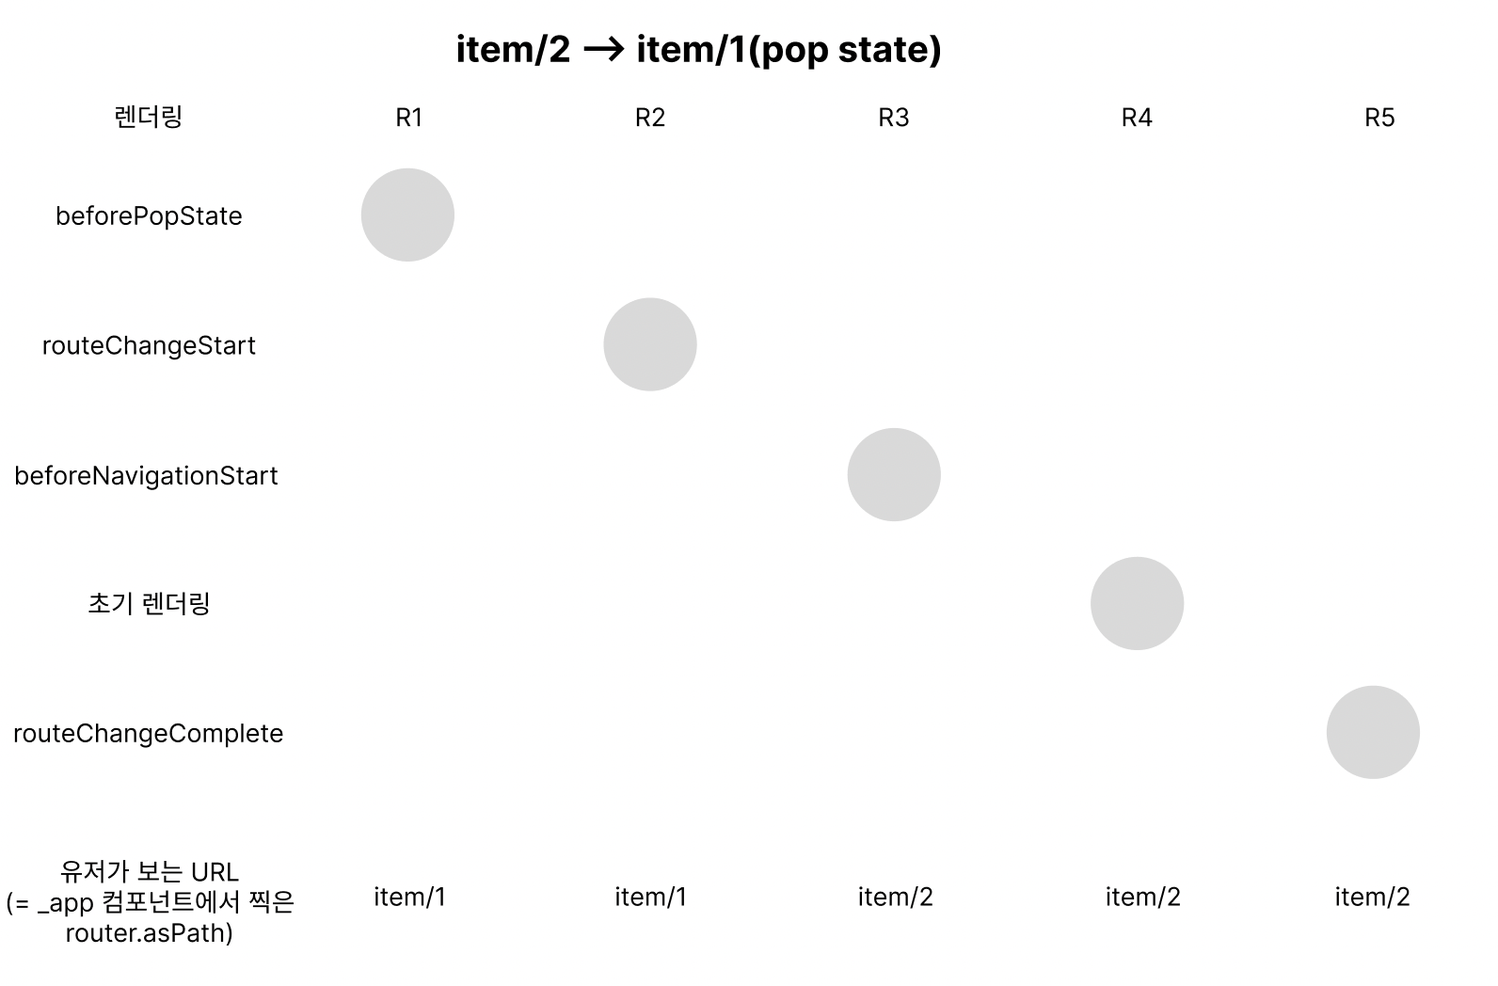
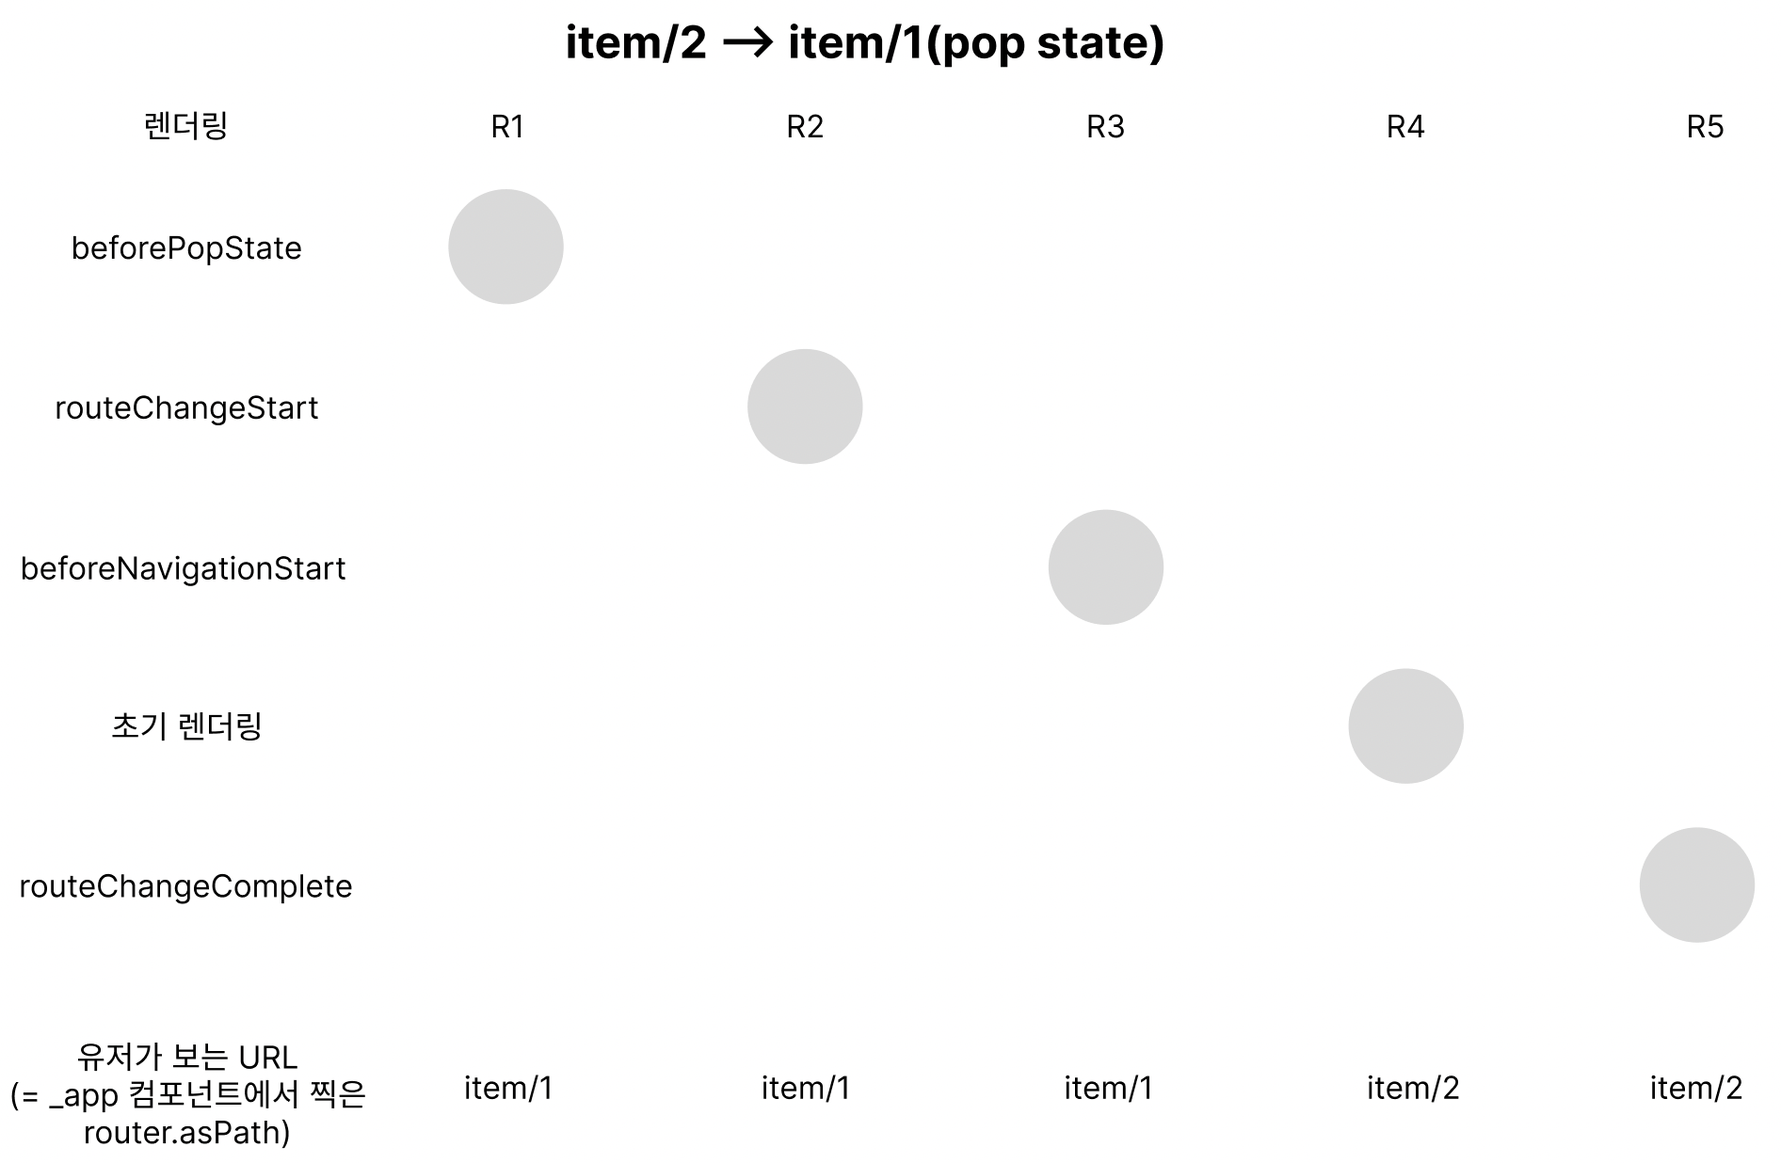
chore: 문서 작성

diff --git a/documents/Share/backspace-scroll-restoration.md b/documents/Share/backspace-scroll-restoration.md
@@ -1,16 +1,23 @@
-웹뷰 프로젝트를 진행하면서, dynamic routing 페이지에서 뒤로가기를 구현하면서 겪은 시행착오와 문제점들을 해결한 과정을 공유합니다.
+---
+date: '2023-02-09'
+title: 'nextjs 스크롤 복원'
+subTitle: 'nextjs에서 뒤로가기시 스크롤 복원하는 방법'
+grandParent: ''
+parent: 'Share'
+slug: '/share/nextjs-scroll-restore'
+---
 
-목차는 다음과 같습니다.
+웹뷰 프로젝트를 진행하면서, dynamic routing 페이지에서 뒤로가기시 스크롤 복원 로직을 구현하면서 겪은 시행착오와 문제점들을 해결한 과정을 공유합니다. 목차는 다음과 같습니다.
 
-#### 1. file based routing과 dynamic routing에 관한 이해
+#### 📌 1. file based routing과 dynamic routing에 관한 이해
 
-#### 2. dynamic routing 페이지의 특성
+#### 📌 2. dynamic routing 페이지의 특성
 
-#### 3. 용어 정의
+#### 📌 3. 용어 정의
 
-#### 4. nextjs에서 제공되는 route와 관련한 라이프 사이클 메서드들의 실행과 렌더링 및 페이지 URL 변화
+#### 📌 4. nextjs에서 제공되는 route와 관련한 메서드들의 실행과 렌더링 및 페이지 URL 변화
 
-#### 5. 코드 레벨에서의 뒤로가기 구현
+#### 📌 5. 코드 레벨에서의 뒤로가기 구현
 
 - 스크롤 저장
 
@@ -20,11 +27,9 @@
 
 ---
 
-### 1. file based routing과 dynamic routing이란?
+### 📌 1. file based routing과 dynamic routing이란?
 
-nextjs는 file based routing이며 dynamic routing 기능을 제공합니다. file based routing이라 함은 nextjs에서 고유하게 제공하는 pages 폴더 하위에 존재하는 폴더 및 파일들이 URL로 인식됨을 의미합니다.
-
-가령 아래와 같은 폴더 구조가 있다고 가정합니다.
+nextjs는 file based routing이며 dynamic routing 기능을 제공합니다. file based routing이라 함은 nextjs에서 고유하게 제공하는 pages 폴더 하위의 폴더 및 파일들이 URL로 인식됨을 의미합니다. 가령 아래와 같은 폴더 구조가 있다고 가정합니다.
 
 ```
 pages
@@ -34,30 +39,27 @@ pages
 
 ```
 
-위와 같은 폴더 구조로 페이지가 구성된 경우 https://example.com/item/list으로 접근이 가능하고, 파일명에 대괄호가 들어가 있는 것을 통해서 dynamic routing 처리가 되어있는 것을 알 수 있습니다. 그러므로 https://exmaple.com/item/1 혹은 http://example.com/item/23 등, item 하위 경로의 아무 숫자로든 접근이 가능해집니다.
+위와 같은 폴더 및 파일 구조를 갖는 경우, https://example.com/item/list으로 접근이 가능하고, 파일명에 대괄호가 들어가 있는 것을 통해서 dynamic routing 처리가 되어있는 것을 알 수 있습니다. 그러므로 https://exmaple.com/item/1 혹은 http://example.com/item/23 등, item 하위 경로의 아무 숫자로든 접근이 가능해집니다.
 
 ---
 
-### 2. dynamic routing 페이지의 특성
+### 📌 2. dynamic routing 페이지의 특성
 
-dynamic routing 페이지의 특성 중 하나는, 페이지 내에 존재하는 버튼 요소등을 통해서 동일한 dynamic routing 경로에 접근하는 경우, 그러니까 item/1 -> item/2 -> item/3 -> ... -> item/100 과 같이 이동하는 경우, [id].tsx 컴포넌트는 [unmount되지 않고 계속 사용](https://nextjs.org/docs/api-reference/next/router#resetting-state-after-navigation)됩니다. 다만, 리렌더링이 계속 발생할 뿐입니다.
-
-이로부터 파생되는 다음 두가지 특성이 존재합니다.
+dynamic routing 페이지의 특성 중 하나는, 페이지 내에 존재하는 버튼 요소등을 통해서 동일한 dynamic routing 경로에 접근하는 경우, 그러니까 item/1 -> item/2 -> item/3 -> ... -> item/100 과 같이 이동하는 경우, [id].tsx 컴포넌트는 [unmount되지 않고 계속 사용](https://nextjs.org/docs/api-reference/next/router#resetting-state-after-navigation)됩니다. 다만, 리렌더링이 계속 발생할 뿐입니다. 이로부터 파생되는 다음 두가지 특성이 존재합니다.
 
 #### 1. 이전 상태가 계속 유지됩니다.
 
-item/1에서 머무르다가 item/2에 도달했을 때 값을 초기화한 상태에서 시작하는게 아니라, item/1에 사용하던 상태와 컴포넌트가 그대로 남아있습니다. 그리고 다음과 같은 문제를 야기합니다.
+item/1에서 머무르다가 item/2에 도달했을 때 값을 useState 내부 값을 초기화한 상태에서 시작하는게 아니라, item/1에 사용하던 상태와 컴포넌트가 그대로 남아있습니다. 그리고 다음과 같은 문제를 야기합니다.
 
-a. 서로 다른 item 페이지에 방문할 때마다, useEffect 내부에서 어떤 로직이 실행되길 기대한다면, 페이지의 변화를 알수있게 dependency 로직에 넣어주어야 합니다.
+- 서로 다른 item 페이지에 방문할 때마다, useEffect 내부에서 어떤 로직이 실행되길 기대한다면, dependency에 페이지 변화에 관한 변수를 넣어주어야 합니다.
 
-b. item/1이 item/2에 비해서 스토리 컨텐츠의 스크롤 가능 높이가 매우 크다고 가정할 때, item/2에서 item/1로 뒤로가기 하는 경우, 렌더링하는 과정과 스크롤을 복원하려는 로직의 충돌(?)로 인해 스크롤이 정상적인 위치로 복원되지 않습니다.
+- item/1이 item/2에 비해서 스토리 컨텐츠의 스크롤 가능 높이가 매우 길다고 가정할 때, item/2에서 item/1로 뒤로가기 하는 경우, 렌더링하는 과정과 스크롤을 복원하려는 로직의 충돌(?)로 인해 스크롤이 정상적인 위치로 복원되지 않습니다. (아직 해결 못함)
 
 #### 2. 화면을 아얘 처음부터 그리지 않기 때문에 화면이 깜빡이지 않습니다.
 
-만약 이러한 특성을 원하지 않는다면, Component에 다음과 같이 key를 할당하여 remount 시켜줄 수 있습니다.
+만약 이러한 특성을 원하지 않는다면, Component에 다음과 같이 key를 할당하여 remount 시켜 상태를 초기화할수 있습니다.
 
 ```javascript
-// pages/_app.js
 import { useRouter } from 'next/router'
 import { getItem } from 'apis'
 
@@ -76,37 +78,37 @@ const ItemPage = () => {
 
 ---
 
-### 3. 용어 정의
+### 📌 3. 용어 정의
 
-페이지 네비게이션이 일어날 수 있는 방법과 용어에 대해서 몇가지 정의하고 넘어가겠습니다.
+페이지 네비게이션은 다음 네가지 방법으로 일어날 수 있습니다.
+
+- 페이지 내에서 다음 페이지로 넘어가는 요소와의 상호작용 (push)
 
 - 뒤로가기 (backspace, 주소탭 옆의 뒤로가기 클릭)
 
 - 앞으로가기 (forward, 주소탭 옆의 앞으로가기 클릭)
 
-- 페이지 내에서 다음 페이지로 넘어가는 요소와의 상호작용 (push 혹은 pushState)
-
 - 주소탭에 URL 직접 입력
 
-저는 여기서 뒤로가기에 대한 상황만 처리했을 뿐 나머지 상황은 처리하지 못했습니다.
+첫번째는 단순 router.push를 하는 일반적인 상황이므로 제외하고, 나머지 케이스들 중에서 뒤로가기 케이스에 대해서만 로직을 작성했습니다.
 
 ---
 
-### 4. nextjs에서 제공되는 route와 관련한 이벤트들의 실행과 렌더링 및 페이지 URL 변화
+### 📌 4. nextjs에서 제공되는 route와 관련한 이벤트들의 실행과 렌더링 및 페이지 URL 변화
 
-다음 코드에 보이는 이벤트 핸들러가 작성된 상태에서 URL이 이동될 때, 렌더링 순서와 페이지 URL이 어떻게 변하는지 알아봅시다. 아래 코드는 [Codesandbox](https://codesandbox.io/s/naughty-aj-mihsvq?file=/pages/_app.js)에 작성해두었습니다.
+nextjs에서 route와 관련한 이벤트 핸들러(beforePopState, routeChangeStart 등)들을 제공합니다. 스크롤 복구 로직을 구현하면서 이벤트 핸들러 내부에서의 상태 업데이트와 언제 어떻게 렌더링이 발생하여 실질적인 페이지 이동은 언제 일어나는지에 대한 이해가 필요했습니다. 관련한 코드는 [Codesandbox](https://codesandbox.io/s/naughty-aj-mihsvq?file=/pages/_app.js)에 작성해두었습니다.
 
-앞선 route 관련 이벤트들의 실행에 따른 렌더링 및 페이지 URL 변화를 시각화하면 다음과 같습니다.
+앞선 Codesandbox 코드들을 렌더링 및 페이지 URL 변화 관점에서 시각화 해보면 다음과 같습니다.
 
 ![](./push-state.png)
 
-먼저 push state 상황이므로 beforePopState 이벤트 핸들러는 실행되지 않습니다. 처음 렌더링(R1)은 routeChangeStart 이벤트 핸들러 내부의 상태 업데이트에 의해서 발생하고, 두번째 렌더링(R2)는 beforeNavigationStart 이벤트 핸들러에 의해 발생되고, 렌더링이 끝나면 URL이 바뀝니다.
+먼저 push state 상황이므로 beforePopState 이벤트 핸들러는 실행되지 않습니다. 처음 렌더링(R1)은 routeChangeStart 이벤트 핸들러 내부의 상태 업데이트에 의해서 발생하고, 두번째 렌더링(R2)는 beforeNavigationStart 이벤트 핸들러에 의해 발생되고, 리렌더링이 끝나면 URL이 바뀌면서 초기 렌더링(R3)이 진행됩니다. 초기 렌더링이 끝나면 routeChangeComplete에 의해서 네번째 렌더링(R4)가 발생합니다.
 
-URL이 바뀐직후 곧바로 초기 렌더링이 한번 일어나고(이때 새로운 id item/2로 데이터 요청), 초기 렌더링이 끝나면 routeChangeComplete에 의해서 네번째 렌더링(R4)가 발생합니다. 그러니까 만약 rotueChangeStart 이벤트 핸들러나 beforeNavigationStart 이벤트 핸들러에서 여러 상태를 업데이트하면 다음 페이지로 넘어가기 전에 모든 상태를 업데이트하고 다음 페이지로 넘어가게 됩니다.
+rotueChangeStart 이벤트 핸들러나 beforeNavigationStart 이벤트 핸들러에서 상태를 업데이트하면 URL이 바뀌기전에 업데이트된 사항을 변경하고 다음 URL로 넘어가게 됩니다.
 
-routeChangeStart시 isRouting을 true로 만들고, routeChangeComplete시 isRouting을 false로 만듭니다. console.log(유저가 보는 현재 URL, isRouting)을 로깅하면 item/2, false가 찍히는 경우가 있을텐데, 초기렌더링이 존재함을 알지 못한다면 '라우팅도 안끝났는데 왜 URL은 바뀌어있지?'라는 생각이 들수 있습니다.
+chatGPT는 'route가 끝나면 유저가 사용 가능한 페이지가 보여져있다고'고 설명합니다. 만약 초기 렌더링 단계의 존재를 알지 못한다면 상황에 따라서 이 문장이 조금 혼란스러울 수 있습니다.
 
-그도 그럴것이 chatGPT는 'route가 끝나면 유저가 사용 가능한 페이지가 보여져있다.'라고 설명하기에 착각할수 있습니다. (틀린 설명은 아닌...)
+예를들면 isRouting이라는 boolean 상태가 있다고 가정해봅시다. 그리고 routeChangeStart시 isRouting true로 만들고, routeChangeComplete시 isRouting을 false로 만들어봅니다. console.log(유저가 보는 URL, isRouting)을 로깅하면 item/2, false가 찍히는 경우가 있을텐데, 초기 렌더링이 존재함을 알지 못한다면 '라우팅도 안끝났는데 왜 URL은 바뀌어있지?'라는 생각이 들수 있습니다.
 
 아래 뒤로가기 상황은 beforePopState만 추가되고 모두 동일합니다.
 
@@ -116,17 +118,19 @@ routeChangeStart시 isRouting을 true로 만들고, routeChangeComplete시 isRou
 
 ---
 
-### 3. 현재 뒤로가기와 관련한 라이프 사이클 상태 변수(메서드가 아님)로 다음 세가지가 존재합니다.
+### 📌 5. 코드 레벨에서의 뒤로가기 구현
 
 - isBeforePopStateEventTriggered
 
 - isCurrentPageVisitedByBackspace
 
-우선 isBeforePopStateEventTriggered isCurrentPageVisitedByBackspace가 왜 사용되는지 설명하겠습니다.
+우선 뒤로가기와 관련한 위 두가지 변수를 먼저 설명하겠습니다.
 
 ![](./backspace.png)
 
-beforePopState 이벤트 핸들러가 실행된 후 routeChangeStart 이벤트 핸들러 순서로 실행됩니다. 뒤로가기가 발생했는지, 안 발생했는지를 알기 위해서는 beforePopState가 실행됐는지 안 실행됐는지를 알수 있는 변수가 필요합니다. 그래서 isBeforePopStateEventTriggered 변수와 업데이트 함수를 만들었습니다.
+beforePopState 이벤트 핸들러가 실행된 후 routeChangeStart 이벤트 핸들러가 실행됩니다. 뒤로가기가 발생했는지, 안발생했는지를 알기 위해서는 beforePopState가 실행됐는지 안실행됐는지를 알수 있어야합니다. 그래서 isBeforePopStateEventTriggered 변수와 업데이트 함수를 만들었습니다.
+
+뒤로가기로직은 많은 페이지에서 사용될 것으로 예상됩니다. 그렇기 때문에 앱이 꺼지기 전까지 unmount되지 않는 \_app 컴포넌트 내에 useBackSpace훅 내에서 이벤트 리스너를 등록합니다. 뒤에서 설명하겠지만 실제 사용하는 페이지에서(예를들면 스크롤 복원이 필요한 페이지) isBeforePopStateTriggered 변수가 필요하기 때문에 export 해주었습니다.
 
 ```javascript
 export let isBeforePopStateTriggered = false
@@ -135,11 +139,9 @@ export let updateIsBeforePopStateTriggered = (newValue: Boolean) =>
   (isBeforePopStateTriggered = newValue)
 ```
 
-뒤로가기로직은 많은 페이지에서 사용될 것으로 예상됩니다. 그렇기 때문에 앱이 꺼지기 전까지 unmount되지 않는 \_app 컴포넌트 내에 useBackSpace()훅을 호출하여 이벤트 리스너를 등록하는데요. 뒤에서 설명하겠지만 실제 사용하는 페이지에서(현재는 스크롤 복원이 필요한 페이지) isBeforePopStateTriggered 변수가 필요하기 때문에 export 해주었습니다.
+또한 단순히 flag의 역할을 위해서 사용되어 굳이 리렌더링을 유발하는 상태로 관리할 필요가 없어서 일반 변수로 선언해주었으며, react가 관리하는 상태와 햇갈릴 수 있을 것 같아서 set이라는 prefix 대신 update prefix를 붙여주었습니다.
 
-![](./app-page-structure.png)
-
-react가 관리하는 상태와 햇갈릴 수 있을 것 같아서 set이라는 prefix 대신 update prefix를 붙여주었습니다.
+앞선 사진속 로직을 이어서 설명하면 다음과 같습니다.
 
 isBeforePopStateEventTriggered의 초기값을 항상 false로 만들고, beforePopState 이벤트 핸들러가 실행되면 true로 만듭니다. 그러면 routeChangeStart가 실행됐을 때 이 값이 true라면 뒤로가기가 발생한 상황이고, 그렇지 않다면 뒤로가기가 발생하지 않은 상태가 되게 됩니다.
 
@@ -149,7 +151,7 @@ isBeforePopStateEventTriggered의 초기값을 항상 false로 만들고, before
 
 스크롤 저장은 (1) push state시 혹은 (2) history stack상 맨 마지막에 존재하는 페이지에서 뒤로가기시(앞으로가기가 불가능한 페이지)에서 스크롤을 저장해야 합니다. (2)를 고려하지 않는다면, 뒤로가기 했다가 다시 앞으로가기시에 저장된 스크롤 위치가 없어서 정상적인 스크롤 복구가 이루어지지 않습니다.
 
-저는 앞으로가기가 있는 웹의 조건이 아닌 앱의 조건을 우선적으로 구현하였으므로 둘다 처리하는 로직은 주석처리했습니다.
+저는 앞으로가기가 있는 웹의 조건이 아닌 앱의 조건만을 고려하여 구현하였으므로 (1)과 (2)를 모두 처리하는 로직은 주석처리했습니다.
 
 ```javascript
 const handleChangeRouteStart = () => {
@@ -158,7 +160,7 @@ const handleChangeRouteStart = () => {
   //   return
   // }
 
-  // (2) 처리
+  // (1)만 처리
   if (isBeforePopStateEventTriggered) {
     return
   }
@@ -177,11 +179,13 @@ const handleChangeRouteStart = () => {
 events.on('routeChangeStart', handleChangeRouteStart)
 ```
 
-보시다시피 스크롤 저장은 routeChangeStart 이벤트 핸들러 내에서 발생하게 되는데, isBeforePopStateEventTriggered를 통해서 뒤로가기가 발생했는지 발생하지 않았는지 여부를 판단할 수 있습니다. 발생하지 않았다면 앞으로
+보시다시피 스크롤 저장은 routeChangeStart 이벤트 핸들러 내에서 발생하게 되는데, isBeforePopStateEventTriggered가 true인 경우 뒤로가기 상황이고, false인 경우 push 상황이라고 생각할 수 있습니다.
+
+(1)과 (2)를 처리하는 코드는 왜 isBeforePopStateEventTriggered && isCurrentPageVisitedByBackspace인 이유는, isCurrentPageVisitedByBackspace의 상태 업데이트와 뒤로가기시 스크롤을 저장하는 로직이 모두 routeChangeStart에서 발생하기 때문입니다. 맨 앞 페이지에서 뒤로가기를 눌러도 상태가 업데이트 되기 전에 isCurrentPageVisitedByBackspace에 접근하므로 맨 앞 페이지는 스크롤이 저장되게 되는거죠.
 
 #### 2. 스크롤 복구
 
-스크롤 복구는 뒤로가기가 발생했을 때만 트리거돼야 isCurrentPageVisitedByBackspace를 이용하여 작성해줍니다.
+스크롤 복구는 뒤로가기가 발생했을 때만 트리거돼야 하므로 다음과 같이 isCurrentPageVisitedByBackspace가 true인 경우에만 스크롤이 복구되도록 작성해줍니다.
 
 ```javascript
 useEffect(() => {
@@ -199,17 +203,54 @@ useEffect(() => {
 
 ![](./problem1.png)
 
-작성 페이지로 접근할 수 있는 페이지에서 작성 페이지로 접근하고, 두번의 네비게이션 후 작성을 완료하게 되면 작성된 글의 id를 전달받고 새로운 페이지로 넘어가게 됩니다. 그런데 여기서 뒤로가기를 했을 때 작성 페이지 2번으로 넘어가고 싶지 않습니다.
+작성 페이지로 접근할 수 있는 페이지에서 작성 페이지로 접근하고, 두번의 네비게이션 후 작성을 완료하게 되면 작성된 글의 id를 전달받고 새로운 페이지로 넘어가게 됩니다. 그런데 여기서 뒤로가기를 했을 때 작성 페이지 1과 2를 보고싶지 않습니다. 원하는 상황은 다음과 같이 history stack이 정리되었으면 좋겠습니다.
 
-단순히 go(-n)을 처리하자니 다시 앞으로가기하는 경우 작성 페이지1과 2를 방문할 수 있습니다. 원하는 상황은 다음과 같이 history stack이 정리되었으면 좋겠습니다.
+![](./wanted1.png)
 
-![](./wanted.png)
+단순히 go(-n)을 처리하자니 다시 앞으로가기하는 경우 작성 페이지1과 2를 방문할 수 있었고, history stack에서 강제로 pop하는 메서드는 존재하지 않았습니다. 그래서 workaround한 해결방법으로 접근했습니다.
 
-그래서 아래와 같은 해결법으로 접근을 했습니다.
+```javascript
+onSuccess: ({ createdItemId }) => {
+  setCreatedItemId(createdItemId)
+  window.history.go(-2)
+}
+```
 
-![](./solution1.png)
+우선 작성하여 생성된 게시글의 id를 전역상태로 두고, history.go(-2)해줍니다. 그리고 \_app 아래의 useBackSpace 훅 안에 다음과 같은 로직을 작성해줍니다.
 
-작성 페이지에서 작성이 끝나자마자, 전역 상태의 itemId에 새로 생성된 itemId을 상태로 업데이트합니다. 그리고 앞서 말한 useBackspace에서 새로 생성된 itemId가 있는 경우 바로 push를 합니다. 단, 작성 페이지는 아니어야 하므로 작성 페이지인 경우 return을 해줍니다.
+```javascript
+useEffect(() => {
+  if (
+    !isCurrentPageWritePage(router) &&
+    isNewlyCreatedItemExist(createdItemId)
+  ) {
+    router.push(`/item/${createdItemId}`)
+  }
+}, [])
+```
 
-그런데 이렇게 처리하니 또 한가지의 문제가 더 발생합니다. 바로 페이지를 라우팅하기전에 어떤 페이지가 잠깐 보여지는 문제입니다.
+현재 페이지가 글 작성 페이지가 아니고 새로 작성된 게시글이 있는 경우에만, 새로 작성된 게시글의 페이지로 이동시킵니다. 이 로직이 실행되는 것은 오로지 (1) 글이 새로 작성되고, (2) history.go(-2)가 발생했을 때 뿐일 것 입니다.
+
+```javascript
+const handleRouteChangeComplete = () => {
+  if (
+    isCurrentPageNewlyCreatedPage(router) &&
+    isNewlyCreatedItemExist(createdItemId)
+  ) {
+    setCreatedItemId(null)
+  }
+}
+```
+
+그리고 페이지 이동이 끝나게 되면 createdItemId를 다시 null로 초기화하기 위해 routeChangeComplete 이벤트 핸들러에 위와 같이 로직을 작성합니다.
+
+이렇게 작성하면 글 작성을 하고 뒤로가기를 했을 때 다시 작성 페이지로 돌아가지 않게됩니다. history stack이 원하던 상태로 된것 입니다. 다만 여기에는 한가지 문제점이 있습니다. go(-2)를 하여 어떤 페이지로 이동했을 때, 이 페이지가 잠깐동안 보여진다는 것 입니다. 이를 해결하기 위해서,
+
+```javascript
+return <>{!isNewlyCreatedItemExist(createdItemId) && <Component />}</>
+```
+
+글이 생성됐으면 해당 페이지로 이동하기 전까지는 잠깐동안 페이지를 보여주지 않도록하여 마무리합니다.
+
+결과적으로 원하는 페이지 동작은 구현했지만 상태 추적이 굉장히 어려운 코드가 되었습니다. hook으로 적당히 관련된 로직들을 묶을 수는 있겠지만 그럼에도 불구하고 한계는 있어보입니다. 만약 더 나은 방법을 알고 계신다면 댓글을 통해 공유해주시면 감사하겠습니다.
 
